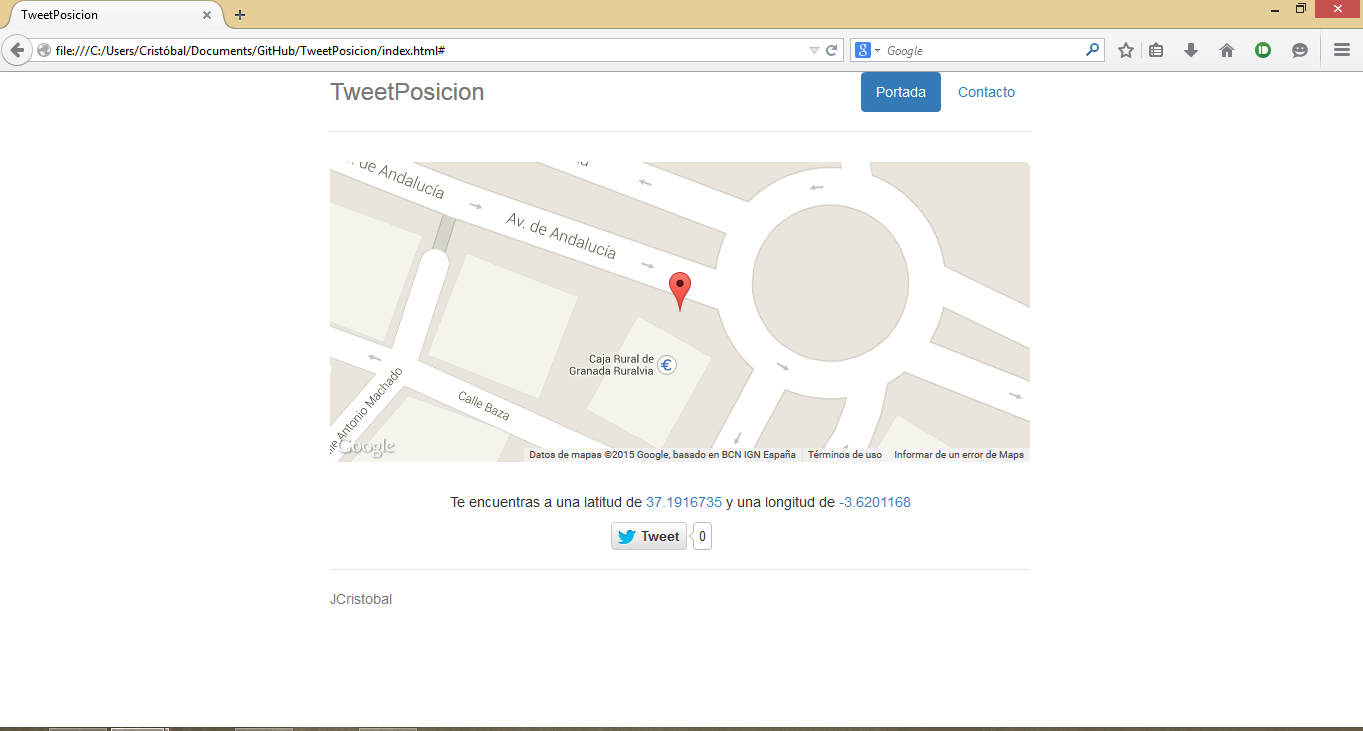
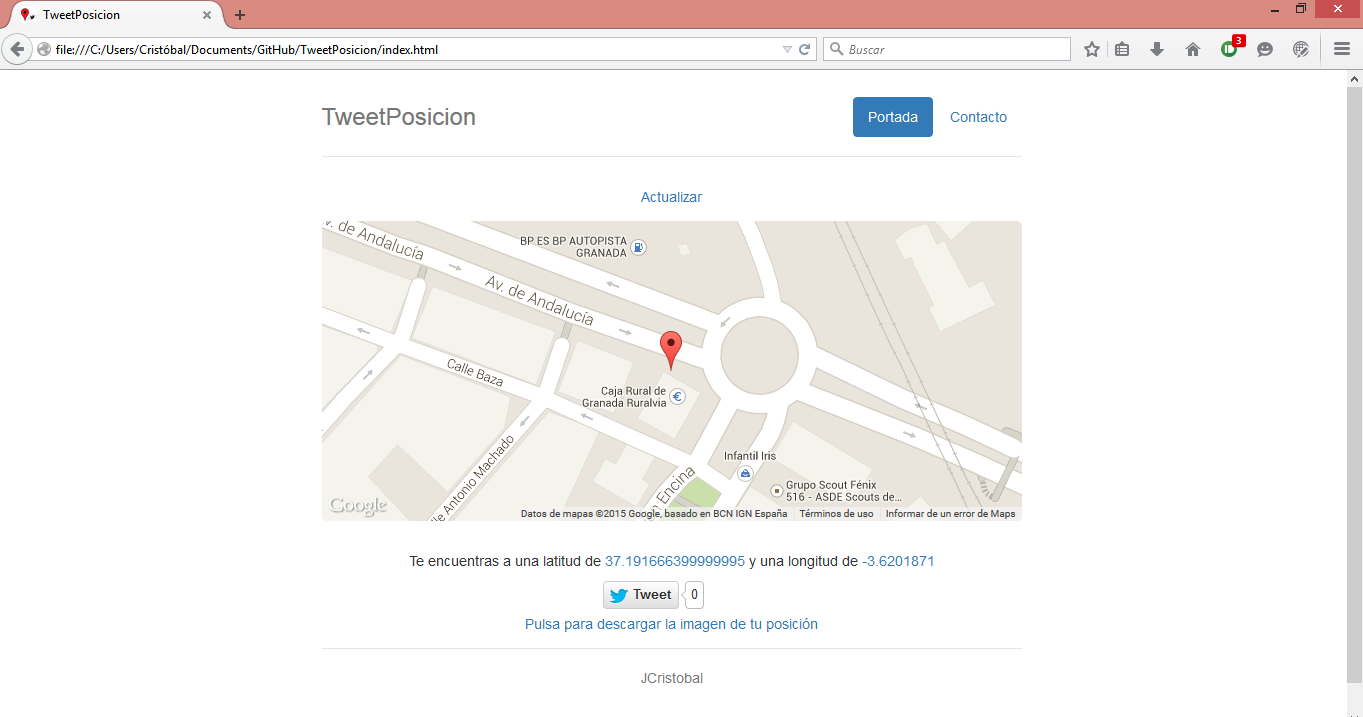
Mejoro tweet de posición
Mejoro tweet de posición, limpio código y actualizo imágenes

diff --git a/index.html b/index.html
@@ -5,7 +5,7 @@
     <meta http-equiv="X-UA-Compatible" content="IE=edge">
     <meta name="viewport" content="width=device-width, initial-scale=1">
     <meta name="description" content="">
-    <meta name="author" content="">
+    <meta name="author" content="JCristobal">
     <link rel="icon" href="twpos.jpeg">
 
     <title>TweetPosicion</title>
@@ -19,24 +19,12 @@
 
     <link href="estilos/miestilo.css" rel="stylesheet"> 
 
-    <!-- Just for debugging purposes. Don't actually copy these 2 lines! -->
-    <!--[if lt IE 9]><script src="../../assets/js/ie8-responsive-file-warning.js"></script><![endif]-->
-    <script href="http://getbootstrap.com/assets/js/ie-emulation-modes-warning.js"></script>
-
-
-    <!-- HTML5 shim and Respond.js for IE8 support of HTML5 elements and media queries -->
-    <!--[if lt IE 9]>
-      <script src="https://oss.maxcdn.com/html5shiv/3.7.2/html5shiv.min.js"></script>
-      <script src="https://oss.maxcdn.com/respond/1.4.2/respond.min.js"></script>
-    <![endif]-->
-
 
 
       <script
           src="http://maps.googleapis.com/maps/api/js">
       </script>
     
-
       <script type="text/javascript">
           var latitud = 37.196787799999996; 
           var longitud = -3.6248942; 
@@ -88,21 +76,15 @@
 
 
             // Creamos el tweet que comparte nuestra ubicación
-            document.getElementById("tweet").innerHTML = "<a id=\"menu\" href=\"https://twitter.com/share\" data-size=\"large\" class=\"twitter-share-button\" data-text=\"Me encuentro en la latitud: "+ latitud +" y longitud: "+ longitud +" twiteando desde la aplicación TweetPosicion \" >Tweetea tu posicion</a>";
+            document.getElementById("tweet").innerHTML = "<a id=\"menu\" href=\"https://twitter.com/share\" data-size=\"large\" class=\"twitter-share-button\" data-text=\"Estoy en la posición:  https://www.google.es/maps/@"+ latitud +","+ longitud +",16z twiteando desde la aplicación TweetPosicion  \" >Tweetea tu posicion</a>";
             !function(d,s,id){var js,fjs=d.getElementsByTagName(s)[0],p=/^http:/.test(d.location)?'http':'https';if(!d.getElementById(id)){js=d.createElement(s);js.id=id;js.src=p+'://platform.twitter.com/widgets.js';fjs.parentNode.insertBefore(js,fjs);}}(document, 'script', 'twitter-wjs');
-
-
-
 
             }, function() { handleNoGeolocation(true);
             });
           
-
-
-
           }
 
-
+          // Manejor de errores
           function handleNoGeolocation(errorFlag) {
               if (errorFlag) {
                 var content = 'Error: El servicio de geolocalización falló.';
@@ -118,13 +100,14 @@
               map.setCenter(options.position);
           }
 
+        /*
           function devuelve_lat() {
               return latitud ;
           }
           function devuelve_long() {
               return  longitud;
           }
-    
+        */
 
 
 
@@ -161,22 +144,18 @@
 
     <p id="centrado"> <a href="javascript:location.reload()">Actualizar</a> </p>
 
-    <div class="jumbotron" id="map_canvas" >      </div>
+    <div class="jumbotron" id="map_canvas" >  </div>
 
     <section id="recarga">
         <p> Te encuentras a una latitud de <a id="muestra_lat"></a> y una longitud de  <a id="muestra_long"></a> </p>
 
-<!-- <script>
-          document.write("<a id=\"menu\" href=\"https://twitter.com/share\" data-size=\"large\" class=\"twitter-share-button\" data-text=\"Me encuentro en la latitud: "+devuelve_lat()+" y longitud: "+devuelve_long()+" twiteando desde la aplicación TweetPosicion \" >Tweetea tu posicion</a>");
-        </script>
-        <script>!function(d,s,id){var js,fjs=d.getElementsByTagName(s)[0],p=/^http:/.test(d.location)?'http':'https';if(!d.getElementById(id)){js=d.createElement(s);js.id=id;js.src=p+'://platform.twitter.com/widgets.js';fjs.parentNode.insertBefore(js,fjs);}}(document, 'script', 'twitter-wjs');</script>
--->
         <div id="tweet"></div>
 
         <div id="imagen_mapa"></div>
 
 
     </section>
+
 
 
       <footer class="footer">
